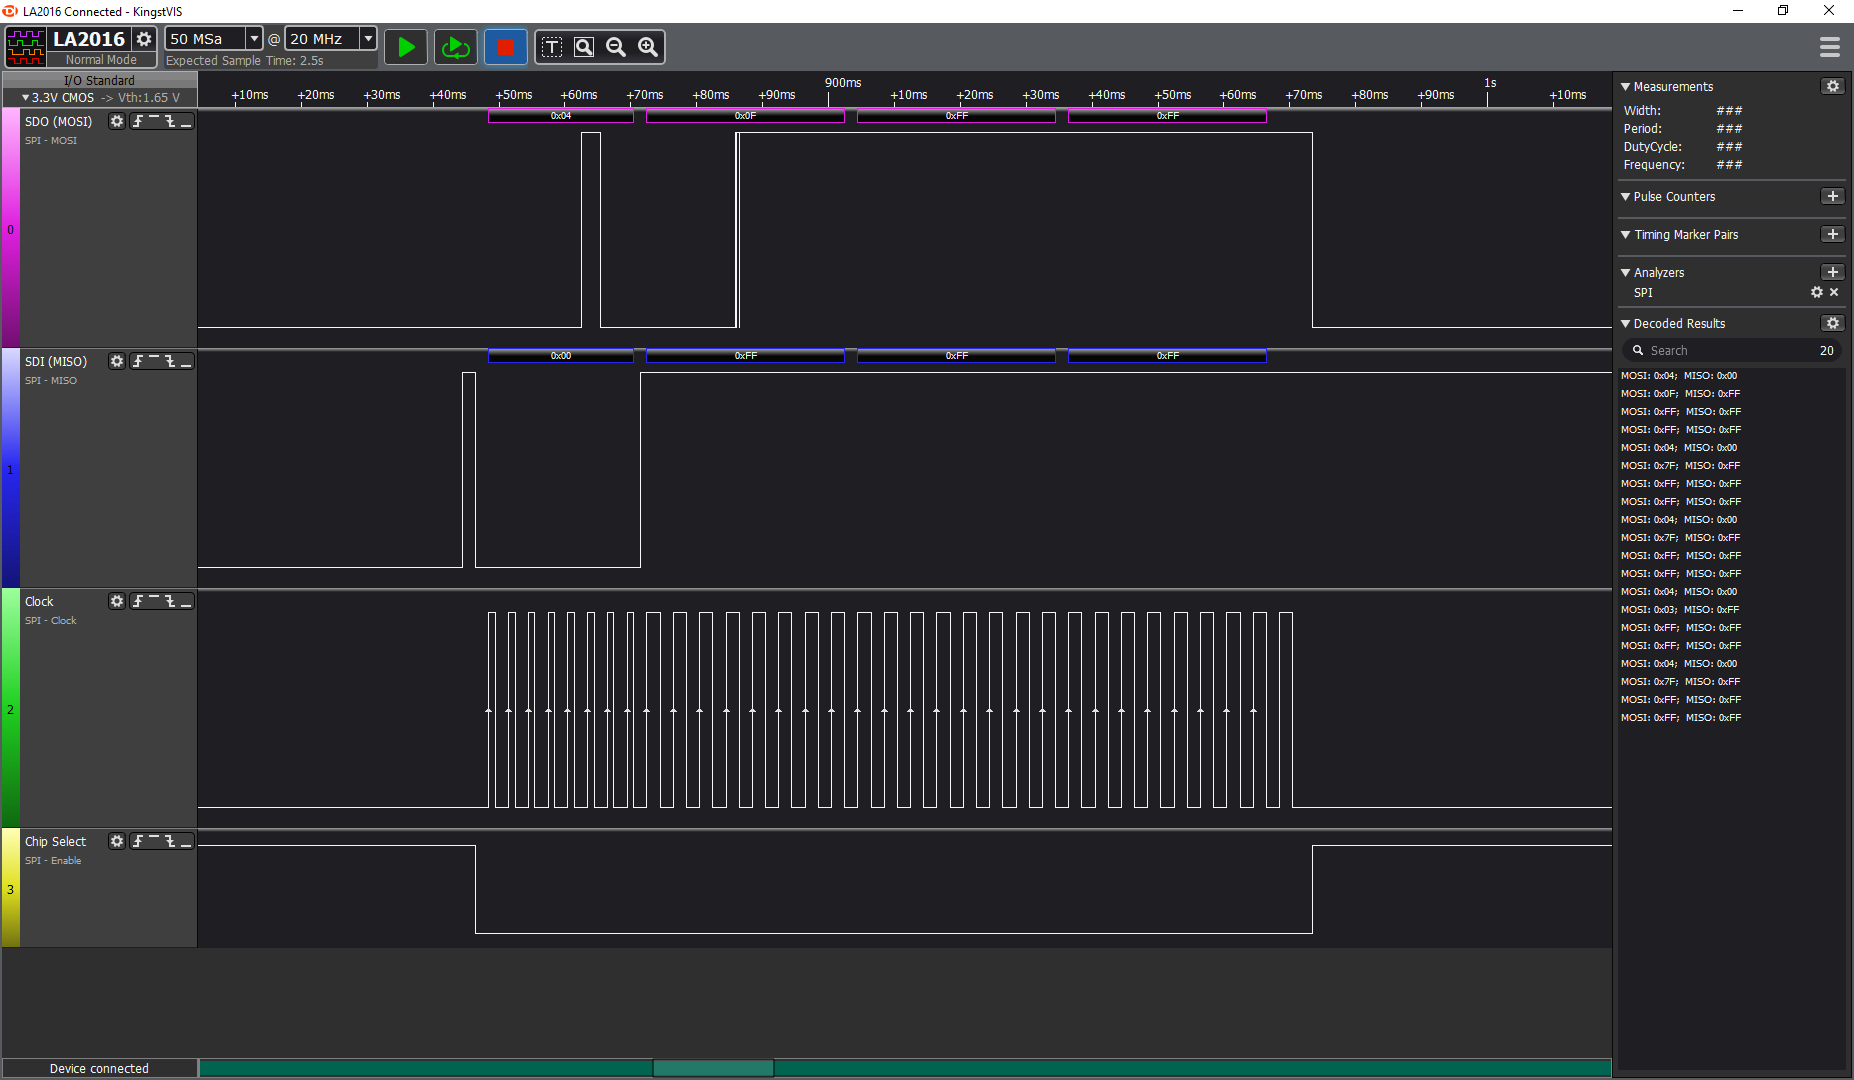
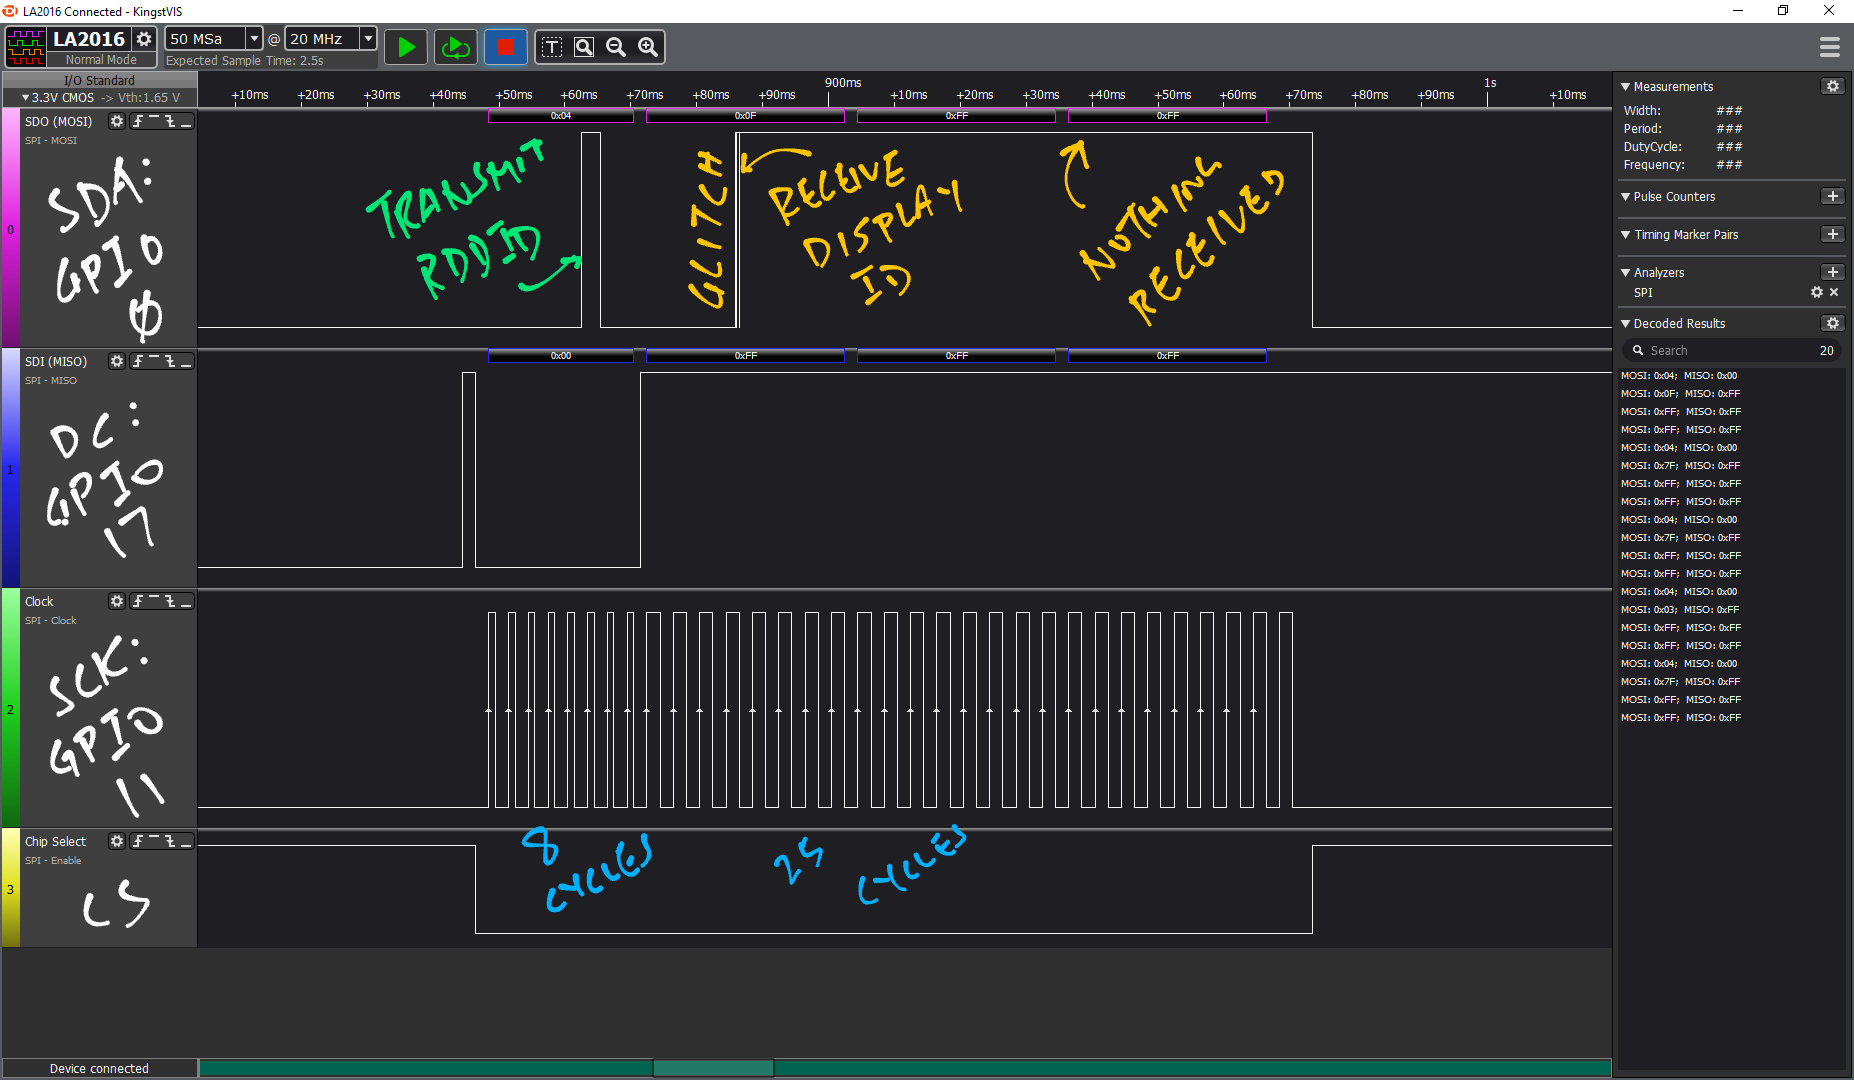
Read ID image

diff --git a/src/pinedio.md b/src/pinedio.md
@@ -751,7 +751,7 @@ We also tried to [__read the display ID__](https://github.com/lupyuen/bl_iot_sdk
 
 But the GPIO 0 signal looks glitchy. See the top line, centre part...
 
-![Probe Results](https://lupyuen.github.io/images/pinedio-readid.jpg)
+![Reading display ID looks glitchy](https://lupyuen.github.io/images/pinedio-readid.png)
 
 Any ideas? 🤔
 
